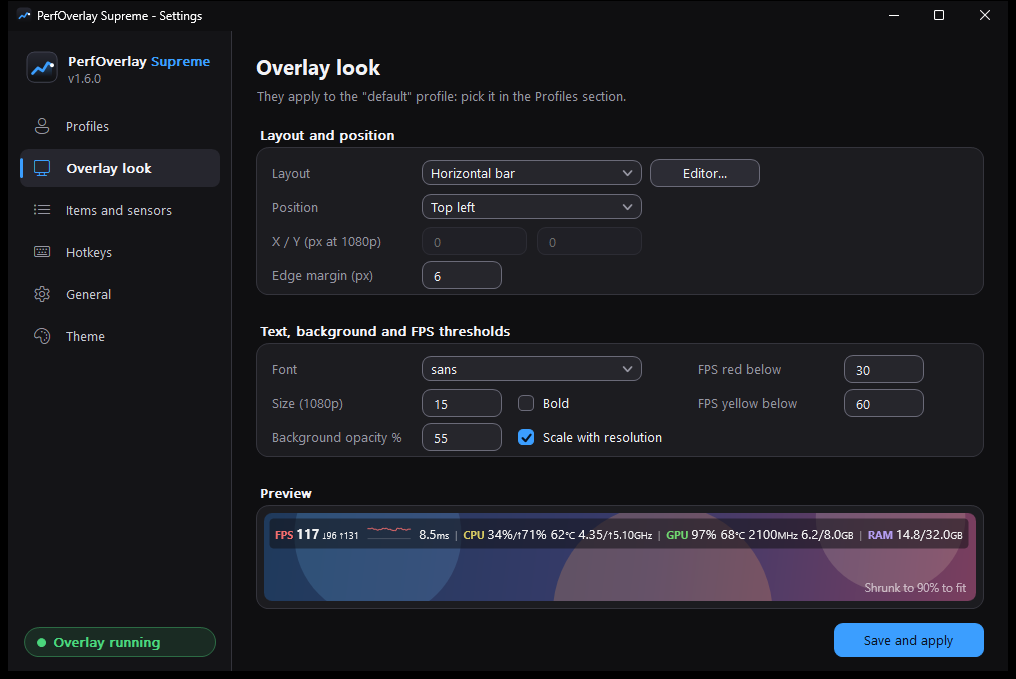
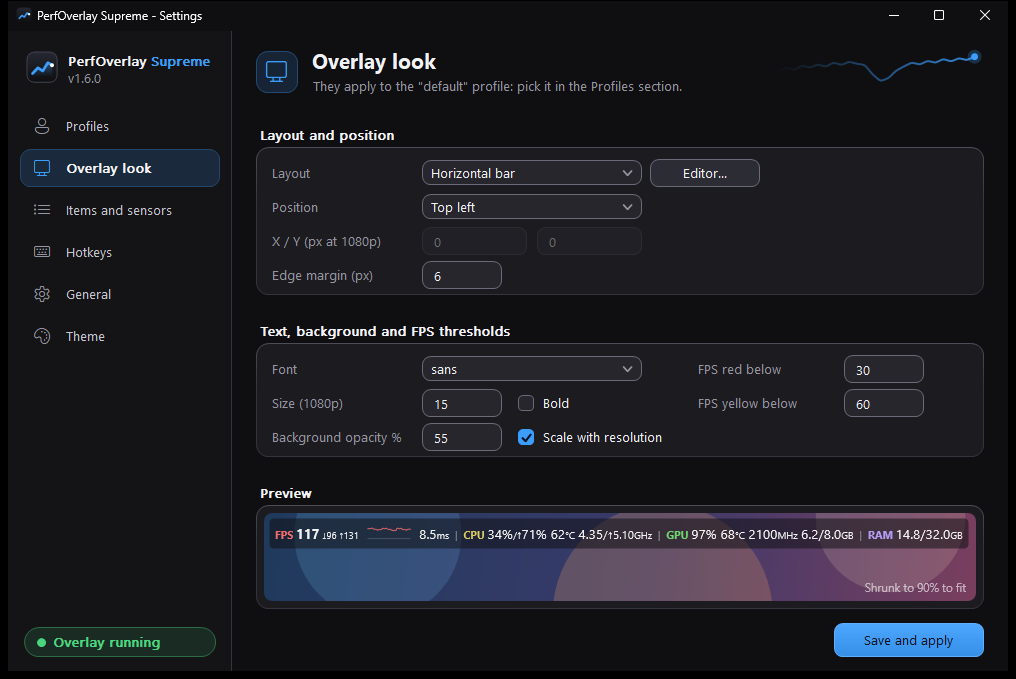
Impostazioni: intestazione con icona e traccia FPS, ritocchi grafici
- Ogni sezione ha l'icona in un quadrato tinto del colore d'accento e, a destra,
  la traccia degli FPS (ui::DrawTrace).
- Barra laterale: la sezione aperta ha fondo e bordo tinti del colore d'accento.
- Riquadri con il bordo più chiaro in alto (ui::FillRoundLit), pulsante
  principale con una leggera sfumatura (ui::FillRoundV).
- Screenshot di README e guida rifatti.

Changed region(s): [[0.2441, 0.0619, 0.6713, 0.1546], [0.9154, 0.0619, 0.9764, 0.0928], [0.8543, 0.0928, 0.8848, 0.1237]]

diff --git a/src/src/settings/settings_window.cpp b/src/src/settings/settings_window.cpp
@@ -175,6 +175,7 @@ struct State {
   HFONT font = nullptr, fontBold = nullptr, fontTitle = nullptr, fontSection = nullptr;
   HFONT fontDlg = nullptr;  // per le finestre secondarie, che hanno dimensioni fisse ai DPI di sistema
   HFONT fontIcon = nullptr;  // glifi delle icone della barra laterale
+  HFONT fontIconBig = nullptr;  // icona della sezione nell'intestazione
   HBRUSH brBg = nullptr, brPanel = nullptr, brInput = nullptr, brInputOff = nullptr, brSide = nullptr;
   HICON icon = nullptr;
   int dpi = 96;      // scala effettiva dell'interfaccia (DPI del monitor × ingrandimento della finestra)
@@ -1296,19 +1297,24 @@ void Paint(HDC dc, const RECT& client) {
              DT_LEFT | DT_VCENTER | DT_END_ELLIPSIS);
 
   // Intestazione della sezione.
+  // Icona nel suo quadrato tinto del colore d'accento, titolo, descrizione; a destra la traccia degli FPS.
   const PageInfo& pg = kPages[g.page];
-  DrawTextAt(dc, pg.name, SR({248, 18, 976, 52}), g.fontTitle, ui::col::Text, DT_LEFT | DT_VCENTER);
+  ui::FillRound(dc, SR({248, 20, 290, 62}), S(11), ui::Blend(ui::col::Bg, ui::col::Accent, 0.15f),
+                ui::Blend(ui::col::Bg, ui::col::Accent, 0.42f));
+  DrawTextAt(dc, pg.glyph, SR({248, 20, 290, 62}), g.fontIconBig, ui::col::Accent, DT_CENTER | DT_VCENTER);
+  ui::DrawTrace(dc, SR({770, 18, 966, 62}), ui::col::Accent, g.dpi / 96.0f);
+  DrawTextAt(dc, pg.name, SR({304, 14, 760, 44}), g.fontTitle, ui::col::Text, DT_LEFT | DT_VCENTER);
   std::wstring sub = pg.subtitle ? pg.subtitle : L"";
   if (!pg.subtitle && g.cur >= 0 && size_t(g.cur) < g.profiles.size())
     sub = TF(L"Valgono per il profilo \"{}\": lo scegli nella sezione Profili.", ToWide(g.profiles[size_t(g.cur)].name));
-  DrawTextAt(dc, sub, SR({249, 54, 976, 76}), g.font, ui::col::Sub, DT_LEFT | DT_VCENTER | DT_END_ELLIPSIS);
+  DrawTextAt(dc, sub, SR({305, 44, 760, 66}), g.font, ui::col::Sub, DT_LEFT | DT_VCENTER | DT_END_ELLIPSIS);
 
   for (const auto& p : g_panels) {
     if (p.page != g.page) continue;
     const RECT r = SR(p.r);
     DrawTextAt(dc, p.title, {r.left + S(4), r.top - S(24), r.right, r.top - S(4)}, g.fontSection, ui::col::Text,
                DT_LEFT | DT_BOTTOM);
-    ui::FillRound(dc, r, S(12), ui::col::Panel, ui::col::Line);
+    ui::FillRoundLit(dc, r, S(12), ui::col::Panel, RGB(78, 78, 90), ui::col::Line);
   }
   for (const auto& l : g_labels)
     if (l.page == g.page) DrawTextAt(dc, l.text, SR(l.r), g.font, ui::col::Sub, DT_LEFT | DT_VCENTER);
@@ -1331,12 +1337,11 @@ void DrawNavItem(const DRAWITEMSTRUCT* d, int i) {
   const bool sel = i == g.page;
   const bool hover = ui::IsHovered(d->hwndItem);
   const bool focus = (d->itemState & ODS_FOCUS) && !(d->itemState & ODS_NOFOCUSRECT);
-  if (sel || hover) {
-    const COLORREF fill = sel ? RGB(38, 38, 46) : RGB(30, 30, 36);
-    ui::FillRound(dc, r, S(8), fill, fill, 0);
-  }
-  if (sel) ui::FillRound(dc, {r.left, r.top + S(9), r.left + S(3), r.bottom - S(9)}, S(2), ui::col::Accent, ui::col::Accent, 0);
-  if (focus) ui::StrokeRound(dc, r, S(8), ui::col::Accent, float(S(2)));
+  if (sel)  // sezione aperta: fondo e bordo tinti del colore d'accento
+    ui::FillRound(dc, r, S(10), ui::Blend(kSidebar, ui::col::Accent, 0.16f), ui::Blend(kSidebar, ui::col::Accent, 0.36f));
+  else if (hover)
+    ui::FillRound(dc, r, S(10), RGB(30, 30, 36), RGB(30, 30, 36), 0);
+  if (focus) ui::StrokeRound(dc, r, S(10), ui::col::Accent, float(S(2)));
   SetBkMode(dc, TRANSPARENT);
   DrawTextAt(dc, kPages[i].glyph, {r.left + S(14), r.top, r.left + S(40), r.bottom}, g.fontIcon,
              sel ? ui::col::Accent : ui::col::Sub, DT_LEFT | DT_VCENTER);
@@ -1648,7 +1653,7 @@ HFONT MakeFont(int tenthsOfPoint, int weight) {
 }
 
 // Icone della barra laterale: Segoe Fluent Icons (Windows 11), altrimenti Segoe MDL2 Assets (Windows 10).
-HFONT MakeIconFont() {
+HFONT MakeIconFont(int px = 16) {
   static const wchar_t* face = [] {
     LOGFONTW lf{};
     lf.lfCharSet = DEFAULT_CHARSET;
@@ -1662,7 +1667,7 @@ HFONT MakeIconFont() {
     ReleaseDC(nullptr, dc);
     return found ? L"Segoe Fluent Icons" : L"Segoe MDL2 Assets";
   }();
-  return CreateFontW(-S(16), 0, 0, 0, FW_NORMAL, FALSE, FALSE, FALSE, DEFAULT_CHARSET, OUT_DEFAULT_PRECIS,
+  return CreateFontW(-S(px), 0, 0, 0, FW_NORMAL, FALSE, FALSE, FALSE, DEFAULT_CHARSET, OUT_DEFAULT_PRECIS,
                      CLIP_DEFAULT_PRECIS, CLEARTYPE_QUALITY, DEFAULT_PITCH, face);
 }
 
@@ -1691,8 +1696,9 @@ void Relayout(int clientW, int clientH) {
   SetPropW(g.wnd, ui::kScaleProp, reinterpret_cast<HANDLE>(static_cast<uintptr_t>(MulDiv(1000, g.dpi, 96))));
 
   if (rescale) {
-    const HFONT old[] = {g.font, g.fontBold, g.fontTitle, g.fontSection, g.fontIcon};
+    const HFONT old[] = {g.font, g.fontBold, g.fontTitle, g.fontSection, g.fontIcon, g.fontIconBig};
     g.fontIcon = MakeIconFont();
+    g.fontIconBig = MakeIconFont(21);
     g.font = MakeFont(95, FW_NORMAL);
     g.fontBold = MakeFont(95, FW_SEMIBOLD);
     g.fontTitle = MakeFont(160, FW_BOLD);
@@ -1743,6 +1749,7 @@ int RunSettingsWindow(HINSTANCE inst, int show) {
   ui::RegisterColorWheel(inst);
   ui::RegisterOverlayPreview(inst);
   g.fontIcon = MakeIconFont();
+  g.fontIconBig = MakeIconFont(21);
   g.font = MakeFont(95, FW_NORMAL);
   g.fontBold = MakeFont(95, FW_SEMIBOLD);
   g.fontTitle = MakeFont(160, FW_BOLD);
@@ -1815,6 +1822,7 @@ int RunSettingsWindow(HINSTANCE inst, int show) {
     DispatchMessageW(&msg);
   }
   for (HGDIOBJ o : std::initializer_list<HGDIOBJ>{g.font, g.fontBold, g.fontTitle, g.fontSection, g.fontDlg, g.fontIcon,
+                                                  g.fontIconBig,
                                                   g.brBg, g.brPanel, g.brInput, g.brInputOff, g.brSide})
     DeleteObject(o);
   if (g.icon) DestroyIcon(g.icon);

diff --git a/src/src/settings/theme.cpp b/src/src/settings/theme.cpp
@@ -448,6 +448,68 @@ void StrokeRound(HDC dc, const RECT& r, int radius, COLORREF color, float width)
   g.DrawPath(&pen, &p);
 }
 
+void FillRoundLit(HDC dc, const RECT& r, int radius, COLORREF fill, COLORREF borderTop, COLORREF borderBottom) {
+  Gdiplus::Graphics g(dc);
+  g.SetSmoothingMode(Gdiplus::SmoothingModeAntiAlias);
+  g.SetPixelOffsetMode(Gdiplus::PixelOffsetModeHalf);
+  Gdiplus::GraphicsPath p;
+  RoundPath(p, r.left + 0.5f, r.top + 0.5f, float(r.right - r.left) - 1, float(r.bottom - r.top) - 1, float(radius));
+  Gdiplus::SolidBrush b(Gp(fill));
+  g.FillPath(&b, &p);
+  // La sfumatura parte e finisce un pixel fuori dal riquadro, così i bordi non prendono il colore opposto.
+  Gdiplus::LinearGradientBrush lb(Gdiplus::PointF(0, float(r.top) - 1), Gdiplus::PointF(0, float(r.bottom) + 1),
+                                  Gp(borderTop), Gp(borderBottom));
+  const Gdiplus::REAL factors[] = {0.0f, 1.0f, 1.0f}, positions[] = {0.0f, 0.4f, 1.0f};
+  lb.SetBlend(factors, positions, 3);
+  Gdiplus::Pen pen(&lb, 1.0f);
+  g.DrawPath(&pen, &p);
+}
+
+void FillRoundV(HDC dc, const RECT& r, int radius, COLORREF top, COLORREF bottom, COLORREF border,
+                float borderWidth) {
+  Gdiplus::Graphics g(dc);
+  g.SetSmoothingMode(Gdiplus::SmoothingModeAntiAlias);
+  g.SetPixelOffsetMode(Gdiplus::PixelOffsetModeHalf);
+  Gdiplus::GraphicsPath p;
+  const float inset = borderWidth > 0 ? borderWidth / 2 : 0;
+  RoundPath(p, r.left + inset, r.top + inset, float(r.right - r.left) - 2 * inset,
+            float(r.bottom - r.top) - 2 * inset, float(radius));
+  Gdiplus::LinearGradientBrush lb(Gdiplus::PointF(0, float(r.top) - 1), Gdiplus::PointF(0, float(r.bottom) + 1),
+                                  Gp(top), Gp(bottom));
+  g.FillPath(&lb, &p);
+  if (borderWidth > 0) {
+    Gdiplus::Pen pen(Gp(border), borderWidth);
+    g.DrawPath(&pen, &p);
+  }
+}
+
+void DrawTrace(HDC dc, const RECT& r, COLORREF color, float scale) {
+  // Andamento d'esempio (0 = fondo, 1 = cima): una partita stabile con un calo e la ripresa.
+  static const float kValues[] = {0.52f, 0.58f, 0.55f, 0.63f, 0.60f, 0.66f, 0.62f, 0.70f, 0.66f, 0.72f,
+                                  0.68f, 0.64f, 0.44f, 0.30f, 0.36f, 0.52f, 0.62f, 0.70f, 0.67f, 0.74f,
+                                  0.71f, 0.78f, 0.74f, 0.80f, 0.77f, 0.84f};
+  constexpr int n = int(std::size(kValues));
+  const float w = float(r.right - r.left), h = float(r.bottom - r.top);
+  if (w <= 0 || h <= 0) return;
+  Gdiplus::PointF pts[n];
+  for (int i = 0; i < n; ++i)
+    pts[i] = Gdiplus::PointF(r.left + w * float(i) / float(n - 1), r.bottom - h * kValues[i]);
+  Gdiplus::Graphics g(dc);
+  g.SetSmoothingMode(Gdiplus::SmoothingModeAntiAlias);
+  const Gdiplus::PointF from(float(r.left) - 1, 0), to(float(r.right) + 1, 0);
+
+  Gdiplus::LinearGradientBrush stroke(from, to, Gp(color, 0), Gp(color, 215));
+  Gdiplus::Pen pen(&stroke, 2.0f * scale);
+  pen.SetLineJoin(Gdiplus::LineJoinRound);
+  g.DrawCurve(&pen, pts, n, 0.35f);
+
+  const Gdiplus::PointF end = pts[n - 1];
+  const float halo = 7.0f * scale, dot = 3.5f * scale;
+  Gdiplus::SolidBrush haloBrush(Gp(color, 60)), dotBrush(Gp(color));
+  g.FillEllipse(&haloBrush, end.X - halo, end.Y - halo, halo * 2, halo * 2);
+  g.FillEllipse(&dotBrush, end.X - dot, end.Y - dot, dot * 2, dot * 2);
+}
+
 void FillCircle(HDC dc, int cx, int cy, int radius, COLORREF fill, COLORREF border) {
   Gdiplus::Graphics g(dc);
   g.SetSmoothingMode(Gdiplus::SmoothingModeAntiAlias);
@@ -504,7 +566,12 @@ void DrawButton(const DRAWITEMSTRUCT* dis, const COLORREF* swatch) {
     border = focus ? col::Accent : hover ? col::FieldHover : col::BtnBorder;  // hover e focus distinti
     text = col::Text;
   }
-  FillRound(dc, r, int(8 * s), fill, border, focus && !disabled ? 2.0f * s : 1.0f);
+  const float borderWidth = focus && !disabled ? 2.0f * s : 1.0f;
+  if (primary && !disabled)  // un filo più chiaro in alto e più scuro in basso
+    FillRoundV(dc, r, int(8 * s), Blend(fill, RGB(255, 255, 255), 0.10f), Blend(fill, RGB(0, 0, 0), 0.10f),
+               focus ? col::Text : Blend(fill, RGB(255, 255, 255), 0.18f), borderWidth);
+  else
+    FillRound(dc, r, int(8 * s), fill, border, borderWidth);
 
   wchar_t label[128];
   GetWindowTextW(h, label, 128);

diff --git a/src/src/settings/theme.h b/src/src/settings/theme.h
@@ -49,6 +49,13 @@ bool ParseHexColor(const std::string& s, COLORREF& out);
 std::string HexColor(COLORREF c);
 void FillRound(HDC dc, const RECT& r, int radius, COLORREF fill, COLORREF border, float borderWidth = 1.0f);
 void StrokeRound(HDC dc, const RECT& r, int radius, COLORREF color, float width);
+// Riquadro con il bordo più chiaro in alto che si spegne scendendo, come il bordo di un vetro illuminato.
+void FillRoundLit(HDC dc, const RECT& r, int radius, COLORREF fill, COLORREF borderTop, COLORREF borderBottom);
+// Riempimento sfumato dall'alto al basso (pulsante principale): dà un po' di spessore senza effetti lucidi.
+void FillRoundV(HDC dc, const RECT& r, int radius, COLORREF top, COLORREF bottom, COLORREF border, float borderWidth);
+// Traccia degli FPS, il segno dell'app (è anche nell'icona): linea che nasce dal nulla a sinistra e finisce
+// con un punto pieno a destra, come un grafico che sta scorrendo.
+void DrawTrace(HDC dc, const RECT& r, COLORREF color, float scale);
 void FillCircle(HDC dc, int cx, int cy, int radius, COLORREF fill, COLORREF border);
 
 // Pulsante owner-draw (BS_OWNERDRAW): stato hover gestito qui, disegno con DrawButton da WM_DRAWITEM.
